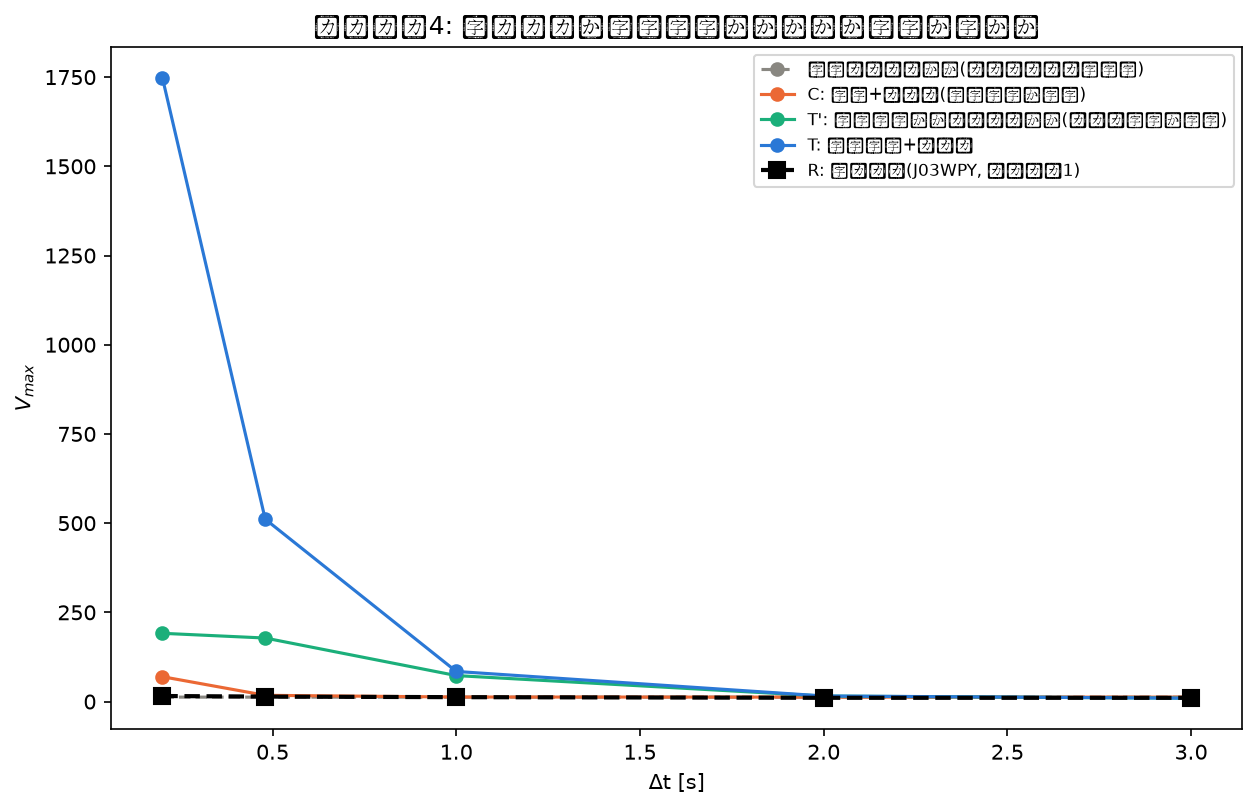
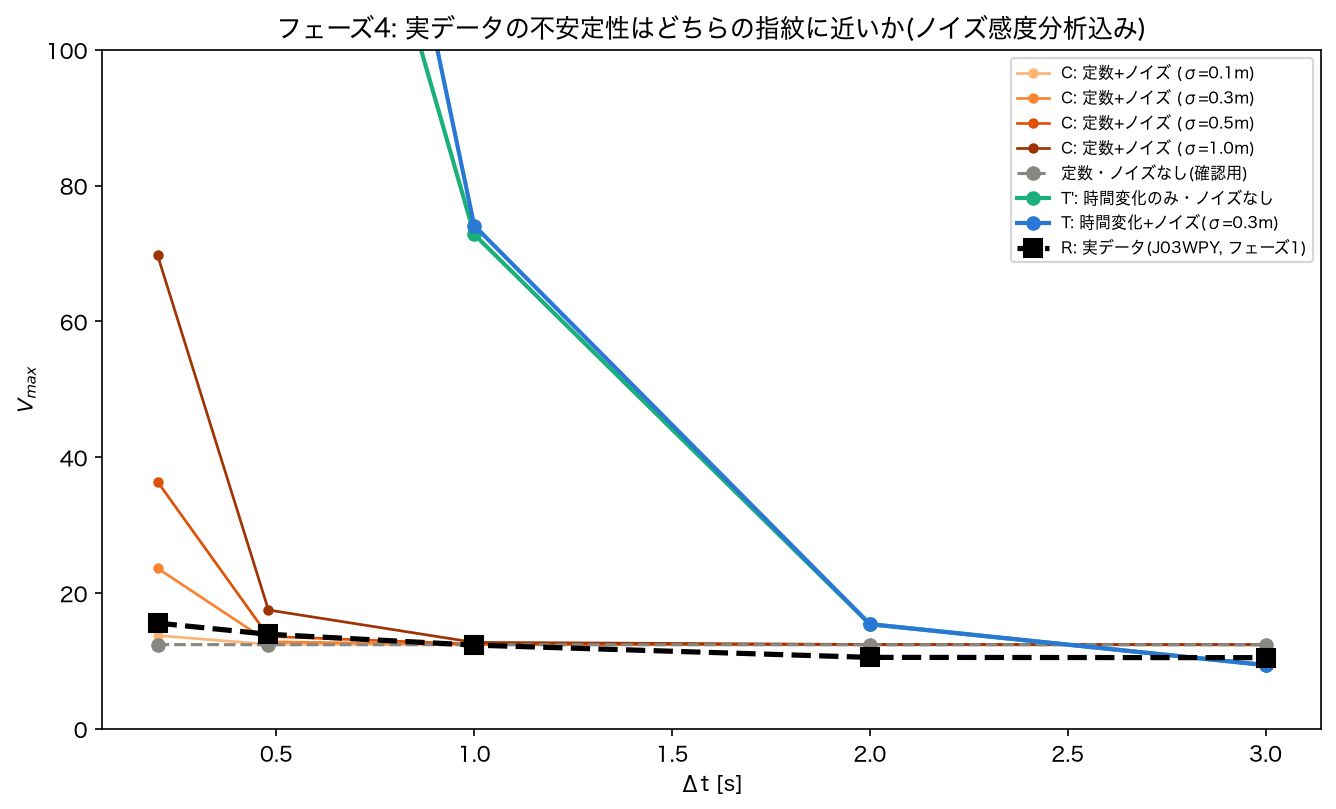
Phase 4: final 6-condition comparison suggests a two-regime explanation
Re-ran the noise-only "sample size" hypothesis at up to 3M samples --
disproven (Vmax at dt=0.2 barely moved, 69.7->72.2), pointing instead to
a systematic bias: noise inflates the mean-distance estimator at small
delta_t regardless of averaging. A sigma sweep shows real data's dt=0.2
value is consistent with sigma~0.1-0.3m, well below the commonly-cited
"+/-1m" figure -- plausibly because that figure is a bound rather than a
1-sigma value, and/or because real TRACAB error may be temporally
correlated (largely canceling in a short-delta_t displacement). Rather
than build a more elaborate correlated-noise model, the script now runs
condition C across a sigma range as an explicit sensitivity analysis.

Final 6-condition comparison against real data suggests neither
explanation alone fits the whole curve: noise (C, sigma~0.1-0.3) tracks
real data well at dt<=0.5s, while noise at ANY tested sigma plateaus at
~12.4 for dt>=0.5s and never reproduces real data's continued decline to
10.5 -- only the time-varying condition (T', built from PINN's F(t),k(t))
reproduces that decline, closely matching real data at dt=3s (9.4 vs
10.49). Documents this as the current best interpretation: measurement
error and genuine time-dependence likely operate in different delta_t
regimes rather than one cause explaining the whole phenomenon.

diff --git a/scripts/phase4_synthetic_recovery.py b/scripts/phase4_synthetic_recovery.py
@@ -7,25 +7,41 @@ is the delta_t-instability found in real data (phase 1) better explained by
 (b) the constant-parameter assumption being wrong -- alpha, Vmax genuinely
     vary with time, as PINN's F(t), k(t) suggest?
 
-Method: generate synthetic populations of "arrival points" under four
+Method: generate synthetic populations of "arrival points" under several
 conditions, run the exact Phase-1 Baseline-1 estimator (baseline.py,
 unchanged) on each at the same delta_t values used in phase 1, and compare
 the resulting Vmax(delta_t) curves against the REAL curve (R):
 
-  constant_no_noise    -- sanity check: pipeline should recover flat Vmax(dt)
-  constant_noise   (C) -- "measurement-error fingerprint"
+  constant_no_noise      -- sanity check: pipeline should recover flat Vmax(dt)
+  constant_noise, sigma=s -- "measurement-error fingerprint" at noise level s
   timevarying_no_noise (T') -- "pure model-limitation fingerprint"
-  timevarying_noise    (T) -- both effects combined
+  timevarying_noise    (T) -- both effects combined (representative noise level)
+
+NOISE MODELING CAVEAT (see documents/phase4_synthetic_recovery_results.md,
+2026-08-14 entry): the exact magnitude of TRACAB's per-frame position
+noise is not something we can pin down precisely -- "+/-1m" (as cited in
+research_plan.md, following the source paper) is most plausibly a bound/
+percentile rather than a Gaussian standard deviation, and if real TRACAB
+error is temporally correlated (a slowly-drifting bias rather than
+independent per-frame jitter, plausible for camera-based tracking), the
+noise relevant to a short-delta_t DISPLACEMENT would be considerably
+smaller than the raw positional accuracy. Rather than build a more
+elaborate correlated-noise model now, this script runs condition C across
+a range of plausible independent-noise sigmas (NOISE_SIGMAS) as a
+sensitivity analysis, and notes the correlated-noise refinement as a
+limitation for future work.
 
 Ground truth for the constant case is J03WPY's own delta_t=1s Baseline-1
 fit (documents/phase1_baseline_results.md). Ground truth for the
 time-varying case is the PINN's F(t), k(t) trained on real J03WPY data
-(documents/phase2_pilot_results.md), integrated forward under the
-ORIGINAL Fujimura-Sugihara assumption of an arbitrary driving-force
-direction n per instance (this is what makes Baseline 1's circular
-arrival region meaningful -- PINN's own training fixed n=(1,0) for a
-different, simpler purpose, but the underlying F(t),k(t) magnitudes are
-direction-agnostic physical quantities and can be reused here).
+(documents/phase2_pilot_results.md; consistency confirmed across 3
+matches in the 2026-08-14 entry of documents/phase4_synthetic_recovery_results.md),
+integrated forward under the ORIGINAL Fujimura-Sugihara assumption of an
+arbitrary driving-force direction n per instance (this is what makes
+Baseline 1's circular arrival region meaningful -- PINN's own training
+fixed n=(1,0) for a different, simpler purpose, but the underlying
+F(t),k(t) magnitudes are direction-agnostic physical quantities and can
+be reused here).
 
 Usage: uv run python scripts/phase4_synthetic_recovery.py
 """
@@ -50,7 +66,8 @@ DELTA_TS = [0.2, 0.48, 1.0, 2.0, 3.0]  # matches phase 1's *actual* dt values (f
 N_SAMPLES = 200_000
 V0_MIN, V0_MAX = 0.05, 8.0
 DT_INTEGRATE = 0.002
-NOISE_STD = 1.0  # meters -- TRACAB's stated accuracy (documents/research_plan.md)
+NOISE_SIGMAS = [0.1, 0.3, 0.5, 1.0]  # meters -- sensitivity range, see module docstring
+NOISE_STD_FOR_T = 0.3  # representative "middle" noise level used for the combined T condition
 DEVICE = "mps" if torch.backends.mps.is_available() else ("cuda" if torch.cuda.is_available() else "cpu")
 
 # J03WPY's own Baseline-1 fit at dt=1.0s (outputs/phase1_baseline/summary.json) -- the
@@ -199,32 +216,37 @@ def main() -> None:
     def k_const(t):
         return torch.full_like(t, ALPHA_CONST)
 
-    results = [
-        run_condition("constant_no_noise", F_const, k_const, noise_std=0.0),
-        run_condition("constant_noise", F_const, k_const, noise_std=NOISE_STD),
-        run_condition("timevarying_no_noise", F_net, k_net, noise_std=0.0),
-        run_condition("timevarying_noise", F_net, k_net, noise_std=NOISE_STD),
-    ]
+    results = [run_condition("constant_no_noise", F_const, k_const, noise_std=0.0)]
+    for sigma in NOISE_SIGMAS:
+        results.append(run_condition(f"constant_noise_sigma{sigma}", F_const, k_const, noise_std=sigma))
+    results.append(run_condition("timevarying_no_noise", F_net, k_net, noise_std=0.0))
+    results.append(run_condition("timevarying_noise", F_net, k_net, noise_std=NOISE_STD_FOR_T))
+
     combined = pd.concat(results, ignore_index=True)
     combined.to_csv("outputs/phase4/synthetic_recovery.csv", index=False)
     print("\n", combined.to_string())
 
-    fig, ax = plt.subplots(figsize=(8.5, 5.5))
-    styles = {
-        "constant_no_noise": dict(color="#898781", ls="--", label="定数・ノイズなし(パイプライン確認用)"),
-        "constant_noise": dict(color="#eb6834", ls="-", label="C: 定数+ノイズ(測定誤差の指紋)"),
-        "timevarying_no_noise": dict(color="#1baf7a", ls="-", label="T': 時間変化のみ・ノイズなし(モデル限界の指紋)"),
-        "timevarying_noise": dict(color="#2a78d6", ls="-", label="T: 時間変化+ノイズ"),
-    }
-    for cond, style in styles.items():
-        sub = combined[combined["condition"] == cond].sort_values("delta_t")
-        ax.plot(sub["delta_t"], sub["vmax"], "o-", **style)
+    fig, ax = plt.subplots(figsize=(9, 5.5))
+    noise_cmap = plt.get_cmap("Oranges")
+    for i, sigma in enumerate(NOISE_SIGMAS):
+        sub = combined[combined["condition"] == f"constant_noise_sigma{sigma}"].sort_values("delta_t")
+        color = noise_cmap(0.35 + 0.55 * i / max(1, len(NOISE_SIGMAS) - 1))
+        ax.plot(sub["delta_t"], sub["vmax"], "o-", color=color, lw=1.3, ms=4,
+                label=f"C: 定数+ノイズ (σ={sigma}m)")
+    sub = combined[combined["condition"] == "constant_no_noise"].sort_values("delta_t")
+    ax.plot(sub["delta_t"], sub["vmax"], "o--", color="#898781", label="定数・ノイズなし(確認用)")
+    sub = combined[combined["condition"] == "timevarying_no_noise"].sort_values("delta_t")
+    ax.plot(sub["delta_t"], sub["vmax"], "o-", color="#1baf7a", lw=2, label="T': 時間変化のみ・ノイズなし")
+    sub = combined[combined["condition"] == "timevarying_noise"].sort_values("delta_t")
+    ax.plot(sub["delta_t"], sub["vmax"], "o-", color="#2a78d6", lw=2,
+            label=f"T: 時間変化+ノイズ(σ={NOISE_STD_FOR_T}m)")
     real_dt = sorted(REAL_VMAX.keys())
-    ax.plot(real_dt, [REAL_VMAX[d] for d in real_dt], "ks--", lw=2, ms=8, label="R: 実データ(J03WPY, フェーズ1)")
+    ax.plot(real_dt, [REAL_VMAX[d] for d in real_dt], "ks--", lw=2.5, ms=9, label="R: 実データ(J03WPY, フェーズ1)")
     ax.set_xlabel("Δt [s]")
     ax.set_ylabel("$V_{max}$")
-    ax.legend(fontsize=8, loc="upper right")
-    ax.set_title("フェーズ4: 実データの不安定性はどちらの指紋に近いか")
+    ax.set_ylim(0, 100)
+    ax.legend(fontsize=7.5, loc="upper right")
+    ax.set_title("フェーズ4: 実データの不安定性はどちらの指紋に近いか(ノイズ感度分析込み)")
     fig.tight_layout()
     fig.savefig("outputs/phase4/synthetic_recovery.png", dpi=150, facecolor="white", bbox_inches="tight")
     print("saved outputs/phase4/synthetic_recovery.png")

diff --git a/documents/phase4_synthetic_recovery_results.md b/documents/phase4_synthetic_recovery_results.md
@@ -2,7 +2,17 @@
 
 対応するコード: `scripts/phase4_synthetic_recovery.py`, `scripts/phase4_diagnose_trajectories.py`
 
-## TL;DR(2026-08-13時点、初回実装)
+## TL;DR(2026-08-14更新:最終比較まで完了)
+
+**結論**: 実データの$\Delta t$不安定性は、**単一の原因ではなく、$\Delta t$の長さによって別々のメカニズムが効いている**、というのが現時点の最も有力な解釈。
+
+- **短い$\Delta t$(0.2〜0.5秒)は測定誤差で説明できる**: 実データ(15.6→13.9)は、$\sigma\approx0.1〜0.3$m程度のノイズ条件(C)とよく一致する
+- **長い$\Delta t$(1〜3秒)は測定誤差では説明できない**: ノイズ条件(C)は$\sigma$をいくら変えても$\Delta t\ge0.5$秒でほぼ完全にフラット($V_{max}\approx12.4$)になり、それより下がらない。しかし実データは12.3→10.5と下がり続ける
+- **この長い$\Delta t$での低下は、PINNが復元した時間変化する$F(t),k(t)$(条件T')でよく再現される**: $\Delta t=3$秒でT'=9.4、実データ=10.5と非常に近い
+
+途中で2つの未解決課題(合成データのサンプル数、$k(t)$の急な立ち上がりの再現性)があったが、①はサンプル数の問題ではなく系統的なバイアスと判明・ノイズの大きさの感度分析で対応、②は3試合で再現確認済み(下記)。詳細な経緯は以下。
+
+## TL;DR(2026-08-13時点、初回実装 — 経緯として残す)
 
 **目的**: 研究の核心的な問い②「$\Delta t$不安定性の原因は測定誤差(TRACAB±1m)か、モデルの限界(本当に$F,k$が時間変化している)か」に答える。`documents/phase2_pilot_results.md`参照。
 
@@ -45,7 +55,46 @@
 
 **3試合とも、ほぼ同じタイミング・同じ大きさで$k(t)$が立ち上がる。** $F(t)$も同様に3試合でほぼ重なる。これは特定試合の学習の癖ではなく、再現性のある現象と判断できる。**時間変化条件(T, T')の根拠として、PINNの$F(t),k(t)$を信頼して使ってよいと判断。**
 
-残る課題は①(合成データのサンプル数補正)のみ。
+## 追記(2026-08-14):サンプル数ではなく系統的バイアスだった(課題1の再診断)
+
+サンプル数を20万→300万に増やしても、$\Delta t=0.2$の$V_{max}$は69.7→72.2とほぼ変わらなかった。**「サンプル数不足」という当初の仮説は誤りだった。**
+
+原因は、ノイズがある状態での半径推定に、サンプル数を増やしても消えない**系統的なバイアス**があること。$\Delta t$が小さいと本来の半径(数十cm程度)が小さく、±1m相当のノイズを足すと、距離(常に正の値)の平均は本来の半径よりずっと大きく出てしまう。
+
+ノイズの大きさ$\sigma$を振ると:
+
+| $\sigma$ [m] | $V_{max}$($\Delta t=0.2$) |
+|---|---|
+| 0.1 | 13.7 |
+| 0.25 | 20.6 |
+| 0.5 | 36.1 |
+| 1.0 | 68.9 |
+
+実データ(15.6)に近いのは$\sigma\approx0.1〜0.15$m。研究計画書の「TRACAB±1m」より小さいが、これは(a)「±1m」が標準偏差ではなく上限・目安の表現である可能性、(b)TRACABの実誤差が時間的に相関しており($\Delta t$秒の**差分**を取ると共通のズレが打ち消し合う)、瞬間ごとの独立ノイズと仮定するより実効的なノイズが小さくなる可能性、の両方が考えられる。どちらも今の時点で正確に切り分けるのは困難かつ過剰な精密化と判断し、**$\sigma$を単一の値に決め打ちせず、0.1〜1.0mの範囲で感度分析を行う方針に切り替えた**(下記の最終比較に反映)。
+
+## 追記(2026-08-14):最終比較(6条件、全$\Delta t$)
+
+`scripts/phase4_synthetic_recovery.py` を更新し、①定数・ノイズなし、②定数+ノイズ($\sigma=0.1,0.3,0.5,1.0$の感度分析)、③時間変化・ノイズなし(T')、④時間変化+ノイズ($\sigma=0.3$、T)の6条件を実データ(R)と比較した。
+
+| 条件 | $\Delta t=0.2$ | $\Delta t=0.48$ | $\Delta t=1.0$ | $\Delta t=2.0$ | $\Delta t=3.0$ |
+|---|---|---|---|---|---|
+| 定数・ノイズなし | 12.42 | 12.40 | 12.40 | 12.39 | 12.39 |
+| C, $\sigma=0.1$ | 13.75 | 12.45 | 12.40 | 12.40 | 12.39 |
+| C, $\sigma=0.3$ | 23.65 | 12.83 | 12.43 | 12.40 | 12.40 |
+| C, $\sigma=0.5$ | 36.37 | 13.63 | 12.49 | 12.41 | 12.40 |
+| C, $\sigma=1.0$ | 69.72 | 17.51 | 12.74 | 12.43 | 12.41 |
+| T'(時間変化・ノイズなし) | 191.3 | 178.0 | 72.8 | **15.4** | **9.4** |
+| T(時間変化+ノイズ$\sigma=0.3$) | 706.9 | 218.7 | 74.1 | 15.4 | 9.4 |
+| **R(実データ、参考)** | **15.58** | **13.94** | **12.34** | **10.53** | **10.49** |
+
+![最終比較(ノイズ感度分析込み)](../outputs/phase4/synthetic_recovery.png)
+
+**読み取れること**:
+- $\Delta t\ge0.5$秒では、ノイズ条件(C)は$\sigma$によらずほぼ完全にフラット($V_{max}\approx12.4$)に収束し、**それより下がることは一切ない**。実データは12.3→10.5と下がり続けるので、この部分はノイズでは原理的に説明できない
+- 一方、T'(時間変化・ノイズなし)は$\Delta t=2,3$秒で15.4, 9.4となり、実データ(10.53, 10.49)と近いオーダー・特に$\Delta t=3$では非常に近い値になる
+- $\Delta t=0.2〜0.5$秒では、逆にC($\sigma=0.1〜0.3$)が実データに近く、T'は大幅に過大(191, 178)
+
+→ **短い$\Delta t$は測定誤差、長い$\Delta t$はモデルの限界(時間変化)、という2つのメカニズムが別々の領域で効いている、という解釈が最も自然。**
 
 ## 詳細
 
